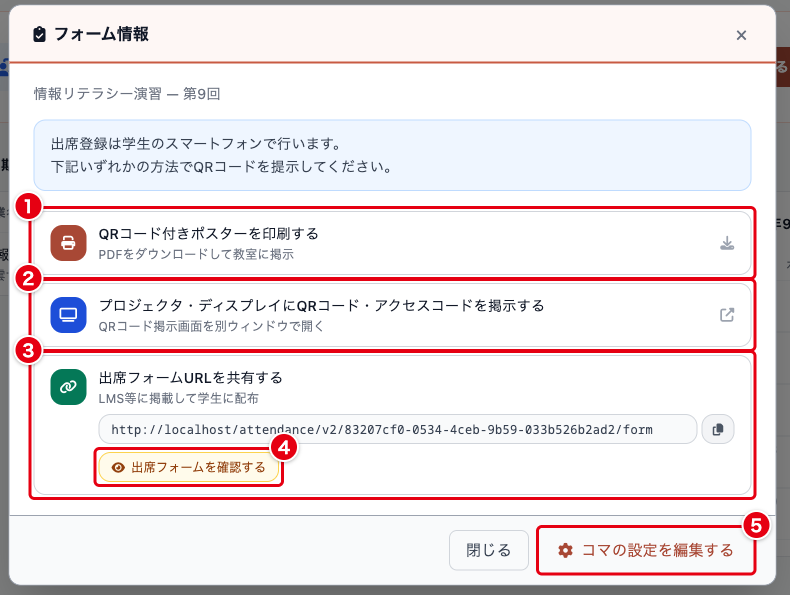
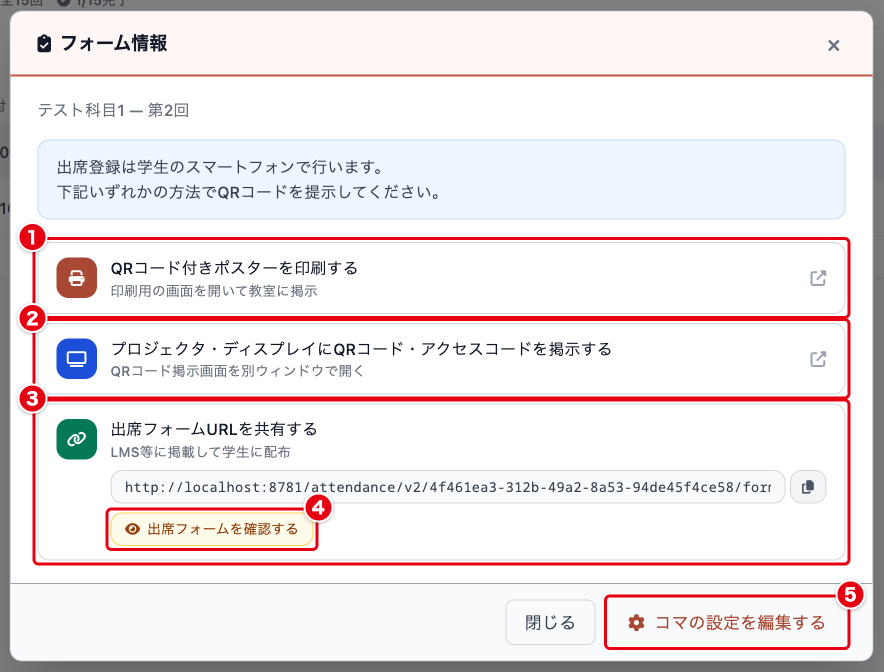
docs(attendance): コマ編集画面から出席用QRコードを取得する手順を書く
for スクールと for パーソナルのページに「出席用のQRコードを取得する」の節を足す。
表示とダウンロードのタブ、日時を変えても QR コードが変わらないこと、
出席登録を受け付ける範囲、先の回の QR コードを事前に配布するときの Q&A を書く。
「フォーム情報」のポスターが印刷用の画面を開くことに合わせて、説明と画像を直す。
旧画面の掲示用 PDF にアクセスコードが載らないことを書く。

Changed region(s): [[0.0, 0.0, 1.0, 0.9983], [0.0, 0.2118, 0.0304, 0.242]]

diff --git a/docs/attendance/attendance-personal-v2.md b/docs/attendance/attendance-personal-v2.md
@@ -216,6 +216,43 @@ for パーソナルでは共同教員の機能を使えないため、for スク
 アクセスコードは4桁の数字で自動生成されます。
 セキュリティ上の理由から、任意の番号を指定することはできません。
 
+### 出席用のQRコードを取得する
+
+コマ編集画面の最下部にある「出席用QRコード」から、そのコマのQRコードを表示し、ダウンロードできます。
+「出席を取る」は次に行う1コマにしか表示されないため、先の回のQRコードを事前に掲示や配布に使う場合は、ここから取得します。
+授業日より前でも取得できます。
+出席が登録されて編集画面が読み取り専用になったコマでも取得できます。
+
+![コマ編集：出席用QRコード（表示）](v2p/15b-session-qr-display.png)
+
+| 番号 | 項目 | 説明 |
+| --- | --- | --- |
+| ① | 表示 | QRコードと、そのコマの情報を表示します |
+| ② | QRコード | そのコマの出席フォームを開くQRコードです |
+| ③ | 回と日時 | 表示しているQRコードが、どの回のものかを示します |
+| ④ | プロジェクタ・ディスプレイに掲示する | 掲示用の画面を別ウィンドウで開きます。「4. 授業当日に出席を取る」の掲示用画面と同じ画面です |
+| ⑤ | QRコード付きポスターを印刷する | QRコード（アクセスコードを必須にしている回は、アクセスコードも）を載せた印刷用の画面を新しいタブで開き、ブラウザの印刷画面を表示します |
+| ⑥ | 案内 | 授業の日時を変更してもQRコードが変わらないことと、出席を登録できる期間を示します |
+
+![コマ編集：出席用QRコード（ダウンロード）](v2p/15c-session-qr-download.png)
+
+| 番号 | 項目 | 説明 |
+| --- | --- | --- |
+| ① | ダウンロード | ダウンロードできるファイルを表示します |
+| ② | 画像をダウンロードする | 「QRコード画像（PNG）」として、QRコードの画像（1024×1024ピクセル）を保存します。スライドや配布資料に貼り付ける場合に使います。ファイル名は「出席QRコード_授業名_第◯回.png」です |
+| ③ | PDFをダウンロードする | 「掲示用PDF（A4）」として、授業名、回、日時とQRコードを載せたA4のPDFを保存します。アクセスコードは載りません。ファイル名は「かんたん出欠掲示用_授業名_第◯回.pdf」です |
+
+**アクセスコードを必須にしている回でQRコード画像または掲示用PDFを使う場合は、アクセスコードを別に受講者へ伝えてください。**
+
+授業の日時を変更しても、QRコードは変わりません。
+先に掲示や配布をしたQRコードは、日時を変更したあともそのまま使えます。
+ただし、QRコード付きポスターと掲示用PDFには日時も載っています。
+日時を変更する前に印刷したものは、別の回と取り違えないよう印刷し直してください。
+
+QRコードを読み取って出席を登録できるのは、出席フォームを開ける時刻（画面では「出席フォームの公開時刻」）から授業終了までです。
+それより前、または授業終了後に読み取ると「出席登録期間外です」と表示され、出席は登録されません。
+出席フォームを開ける時刻は「5. 受講者が出席を登録する」の「出席、遅刻、欠席の判定」に書いています。
+
 ### コマを追加する
 
 授業一覧の「コマ追加」、コマ一覧の「新規コマ作成」、またはサイドバーの「コマ作成」から、コマを1件ずつ追加できます。
@@ -236,7 +273,7 @@ QRコードの見せ方をここで選びます。
 
 | 番号 | 項目 | 説明 |
 | --- | --- | --- |
-| ① | QRコード付きポスターを印刷する | QRコードとアクセスコードを載せたPDFをダウンロードします。印刷して教室に掲示します |
+| ① | QRコード付きポスターを印刷する | QRコード（アクセスコードを必須にしている回は、アクセスコードも）を載せた印刷用の画面を新しいタブで開き、ブラウザの印刷画面を表示します。印刷して教室に掲示します |
 | ② | プロジェクタ・ディスプレイにQRコード・アクセスコードを掲示する | 掲示用の画面を別ウィンドウで開きます |
 | ③ | 出席フォームURLを共有する | 出席フォームのURLをコピーします。LMSなどに掲載して配る場合に使います |
 | ④ | 出席フォームを確認する | 受講者に見える画面を確認します。この画面から送信しても出席は記録されません |
@@ -255,7 +292,8 @@ QRコードの見せ方をここで選びます。
 | ④ | リアルタイム出席状況 | 出席、遅刻、欠席の人数が登録に応じて更新されます |
 | ⑤ | 閉じる | 掲示用画面を閉じて元の画面に戻ります |
 
-紙に印刷して掲示する場合は、「フォーム情報」の①「QRコード付きポスターを印刷する」からPDFを出力してください。
+紙に印刷して掲示する場合は、「フォーム情報」の①「QRコード付きポスターを印刷する」から印刷してください。
+先の回の分を事前に印刷する場合は、「3. 授業とコマを一覧する」の「出席用のQRコードを取得する」から取得してください。
 
 ## 5. 受講者が出席を登録する
 
@@ -467,6 +505,12 @@ for パーソナルでは、授業を作る前に学校を1件登録する必要
 出席表の「授業を編集する」もグレーで表示されます。
 授業名だけは、授業一覧の授業名の横にある鉛筆アイコンから変更できます。
 アクセス制限などを変えたい場合は、コマごとの編集画面から個別に変更してください。
+
+### Q. 先の回のQRコードを事前に配布したい
+
+コマ編集画面の最下部にある「出席用QRコード」から、どのコマのQRコードでも表示またはダウンロードできます。
+授業日より前に取得するために、授業の日時を一時的に変更する必要はありません。
+手順は「3. 授業とコマを一覧する」の「出席用のQRコードを取得する」にあります。
 
 ### Q. 確認問題はどこで設定しますか
 

diff --git a/docs/attendance/attendance.md b/docs/attendance/attendance.md
@@ -93,7 +93,7 @@ QRコードやアクセスコードを使用して、学生がスマートフォ
 授業詳細画面の授業コマ一覧から、以下のボタンを使用できます：
 
 - **フォームリンク**: 出席フォームのURLを新しいタブで開きます
-- **掲示用PDF**: QRコードとアクセスコードが記載されたPDFを生成します（教室に掲示して使用）
+- **掲示用PDF**: QRコードと授業名、回、日時を載せたPDFを生成します（教室に掲示して使用。アクセスコードは載りません）
 - **結果**: その回の出席結果を確認できます
 - **編集**: 授業コマの設定を変更できます
 - **削除**: 授業コマを削除できます（授業を作成した教員にだけ表示されます）
